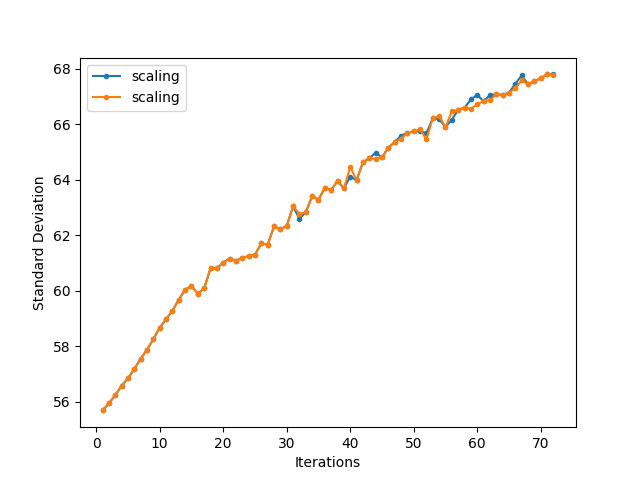
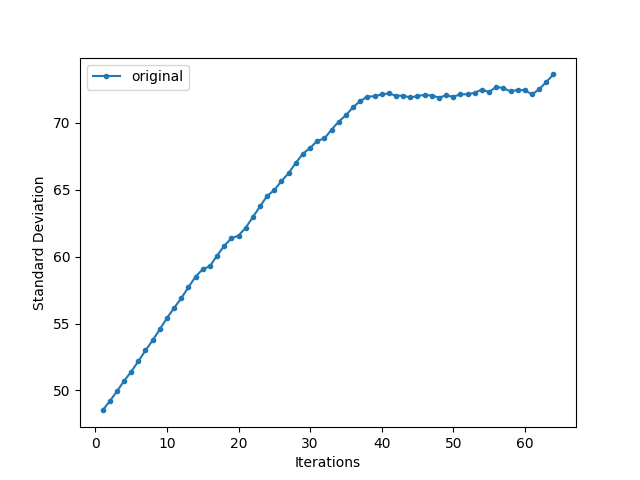
implemented OriginalExtractor

diff --git a/twodirectional/original.py b/twodirectional/original.py
@@ -1,4 +1,3 @@
-from configurations import *
 from util.compress import CompressionAlgorithm, deflate
 from util.data_buffer import BoolDataBuffer
 from util.util import *
@@ -25,7 +24,7 @@ class OriginalEmbedder:
         self._fill_buffer(is_modified)
         self._process(iterations)
         embedded_image = assemble_image(self._header_pixels, self._processed_pixels, self._cover_image.shape)
-        return embedded_image, len(self._hidden_data) - len(self._buffer.next(-1))
+        return embedded_image, iterations, len(self._hidden_data) - len(self._buffer.next(-1))
 
     def _preprocess(self, iterations):
         is_modified = np.zeros_like(self._processed_pixels, dtype=np.bool)
@@ -99,11 +98,89 @@ class OriginalEmbedder:
 
         try:
             self._index += 1
-            print(self._index)
             return self.embed(self._index)
         except ValueError:
             self.index = 0
             raise StopIteration
+
+
+class OriginalExtractor:
+    def __init__(self, compression=deflate):
+        self._decompress = compression.decompress
+
+        self._header_pixels = None
+        self._processed_pixels = None
+        self._buffer = BoolDataBuffer()
+
+    @staticmethod
+    def _get_peaks(peaks):
+        return binary_to_integer(peaks[:8]), binary_to_integer(peaks[8:])
+
+    def extract(self, embedded_image):
+        embedded_image = embedded_image.copy()
+        self._header_pixels, self._processed_pixels = get_header_and_body(embedded_image, 17)
+
+        iterations = self._process()
+        hidden_data, is_modified = self._process_data(iterations)
+        self._recover_image(iterations, is_modified)
+
+        cover_image = assemble_image(self._header_pixels, self._processed_pixels, embedded_image.shape)
+
+        return cover_image, iterations, hidden_data
+
+    def _process(self):
+        iterations = 0
+        parity = get_lsb([self._header_pixels[0]])
+        self._buffer.set_parity(parity)
+        left_peak, right_peak = self._get_peaks(get_lsb(self._header_pixels[1:]))
+        while left_peak or right_peak:
+            iterations += 1
+
+            left_peak_pixels = self._processed_pixels[
+                np.logical_or(self._processed_pixels == left_peak, self._processed_pixels == left_peak - 1)]
+
+            right_peak_pixels = self._processed_pixels[
+                np.logical_or(self._processed_pixels == right_peak, self._processed_pixels == right_peak + 1)]
+
+            iteration_data = []
+            iteration_data.extend(left_peak - left_peak_pixels)
+            iteration_data.extend(right_peak_pixels - right_peak)
+            self._buffer.add(iteration_data)
+
+            self._processed_pixels[self._processed_pixels == left_peak - 1] = left_peak
+            self._processed_pixels[self._processed_pixels == right_peak + 1] = right_peak
+            self._processed_pixels[self._processed_pixels < left_peak] += 1
+            self._processed_pixels[self._processed_pixels > right_peak] -= 1
+
+            binary_last_peaks = self._buffer.next(16)
+            left_peak, right_peak = self._get_peaks(binary_last_peaks)
+
+        return iterations
+
+    def _process_data(self, iterations):
+        is_modifiable = np.logical_or(self._processed_pixels < 2 * iterations,
+                                      self._processed_pixels > MAX_PIXEL_VALUE - 2 * iterations)
+        is_modified = np.zeros_like(self._processed_pixels, dtype=np.bool)
+
+        for index, value in np.ndenumerate(self._header_pixels):
+            self._header_pixels[index] = set_lsb(value, self._buffer.next())
+
+        is_modified_size_bits = self._buffer.next(COMPRESSED_DATA_LENGTH_BITS)
+        is_modified_compressed_size = binary_to_integer(is_modified_size_bits)
+        is_modified_compressed = self._buffer.next(is_modified_compressed_size * 8)
+        is_modified_minimized_bytes = self._decompress(bits_to_bytes(is_modified_compressed))
+        is_modified_minimize_with_extra_bits = bytes_to_bits(is_modified_minimized_bytes)
+        is_modified[is_modifiable] = is_modified_minimize_with_extra_bits[:np.count_nonzero(is_modifiable)]
+        hidden_data = bits_to_bytes(self._buffer.next(-1))
+        return hidden_data, is_modified
+
+    def _recover_image(self, iterations, is_modified):
+        self._processed_pixels[np.logical_and(is_modified, self._processed_pixels < 128)] -= iterations
+        self._processed_pixels[np.logical_and(is_modified, self._processed_pixels >= 128)] += iterations
+
+
+def embed(image, data, iterations=64):
+    return OriginalEmbedder(image, data).embed(iterations)
 
 
 if __name__ == '__main__':
@@ -111,10 +188,17 @@ if __name__ == '__main__':
 
     image = read_image('res/f-16.png')
     data = bits_to_bytes(np.random.randint(0, 2, size=2000 * 2000) > 0)
-    embedder = OriginalEmbedder(image, data)
+    embedder = OriginalEmbedder(image.copy(), data)
+    extractor = OriginalExtractor()
 
     embedded, hidden_data_size = embedder.embed(64)
     cv2.imwrite('out/embedded.png', embedded)
 
-    for it in embedder:
-        print(it)
+    extracted, iterations, hidden_data = extractor.extract(embedded)
+    cv2.imwrite('out/extracted.png', extracted)
+
+    print(f'difference: {np.sum(np.abs(image - extracted))} \n'
+          f'hidden data size: {8 * len(hidden_data)}')
+
+    # for it in embedder:
+    #     print(it)

diff --git a/stats.py b/stats.py
@@ -6,9 +6,9 @@ import matplotlib.pyplot as plt
 import numpy as np
 from skimage.metrics import structural_similarity
 
+from rdh_algorithm import *
 from util.compress import *
 from util.measure import Measure
-from util.rdh import *
 from util.util import bits_to_bytes, read_image
 
 parser = argparse.ArgumentParser()
@@ -19,9 +19,9 @@ ORIGINAL_IMAGE_NAME = args.source
 ORIGINAL_IMAGE_PATH = f'res/{ORIGINAL_IMAGE_NAME}'
 DATA_PATH = 'res/data.txt'
 # RDH_ALGORITHMS = [original_algorithm, scaling_algorithm, unidirectional_algorithm, bp_unidirectional_algorithm]
-RDH_ALGORITHMS = [scaling_algorithm, scaling_algorithm]
-ARGS = ((no_compress,), (deflate, ))
-KWARGS = ({}, {})
+RDH_ALGORITHMS = [original_algorithm]
+ARGS = ((no_compress,), )
+KWARGS = ({}, )
 
 path, name = os.path.split(ORIGINAL_IMAGE_NAME)
 image_name, _ = os.path.splitext(name)
@@ -49,45 +49,42 @@ ratios = []
 stds = []
 means = []
 ssids = []
-for rdh, args, kwargs in zip(RDH_ALGORITHMS, ARGS, KWARGS):
+for (embedder, extractor, label), args, kwargs in zip(RDH_ALGORITHMS, ARGS, KWARGS):
     stopwatch = Measure()
     print('======================')
-    print(rdh)
+    print(label)
     print('======================')
     algorithm_rations = []
     algorithm_stds = []
     algorithm_means = []
     algorithm_ssids = []
-    for iterations_count in range(1, rdh.limit + 1):
+    embedder = embedder(original_image.copy(), data)
+    extractor = extractor()
+
+    for embedded_image, iterations_count, _ in embedder:
         print(f'{iterations_count} iterations:')
 
-        processed_image, remaining_data = Measure(rdh.embed, 'embedding', print_time=True) \
-            (original_image.copy(), data, iterations_count, *args, **kwargs)
-        if rdh.extract:
-            try:
-                recovered_image, extraction_iterations, extracted_data = \
-                    Measure(rdh.extract, 'extraction', print_time=True)(processed_image.copy(), *args, **kwargs)
-                is_successful = \
-                    not np.any(original_image - recovered_image) and extraction_iterations == iterations_count
-                hidden_data_size = len(extracted_data) * 8
-            except Exception as e:
-                print(e)
-                is_successful = False
-                hidden_data_size = 0
-                recovered_image = None
-        else:
+        try:
+            recovered_image, extraction_iterations, extracted_data = extractor.extract(embedded_image)
+            # recovered_image, extraction_iterations, extracted_data = \
+            #     Measure(rdh.extract, 'extraction', print_time=True)(embedded_image.copy(), *args, **kwargs)
+            is_successful = \
+                not np.any(original_image - recovered_image) and extraction_iterations == iterations_count
+            hidden_data_size = len(extracted_data) * 8
+        except Exception as e:
+            print(e)
+            is_successful = False
+            hidden_data_size = 0
             recovered_image = None
-            hidden_data_size = 8 * (len(data) - len(remaining_data))
-            is_successful = hidden_data_size >= 0
 
         if is_successful:
             print(hidden_data_size, 'bits')
             print(hidden_data_size / 8000, 'kb')
             print(round(hidden_data_size / original_image.size, 3), 'bit/pixel')
             algorithm_rations.append(hidden_data_size / original_image.size)
-            algorithm_stds.append(np.std(processed_image, dtype=np.float64))
-            algorithm_means.append(np.abs(np.mean(original_image) - np.mean(processed_image, dtype=np.float64)))
-            algorithm_ssids.append(structural_similarity(original_image, processed_image))
+            algorithm_stds.append(np.std(embedded_image, dtype=np.float64))
+            algorithm_means.append(np.abs(np.mean(original_image) - np.mean(embedded_image, dtype=np.float64)))
+            algorithm_ssids.append(structural_similarity(original_image, embedded_image))
         else:
             print('extraction failed')
             if recovered_image is not None:
@@ -103,7 +100,7 @@ for rdh, args, kwargs in zip(RDH_ALGORITHMS, ARGS, KWARGS):
     ssids.append(algorithm_ssids)
 
 algorithms_labels = [algo.label for algo in RDH_ALGORITHMS]
-algorithms_labels.append(unidirectional_algorithm.label)
+# algorithms_labels.append(unidirectional_algorithm.label)
 
 plot(ratios, algorithms_labels, 'Iterations', 'Pure hiding ratio (bpp)', f'rate_{image_name}')
 plot(stds, algorithms_labels, 'Iterations', 'Standard Deviation', f'std_{image_name}')

diff --git a/twodirectional/scaling.py b/twodirectional/scaling.py
@@ -1,4 +1,4 @@
-from original_embed import OriginalEmbedder
+from original import OriginalEmbedder
 from util.util import *
 
 
@@ -42,7 +42,7 @@ class ScalingEmbedder(OriginalEmbedder):
 if __name__ == '__main__':
     import cv2
 
-    image = read_image('res/f-16.png')
+    image = read_image('res/dataset-50/43.gif')
     data = bits_to_bytes(np.random.randint(0, 2, size=2000 * 2000) > 0)
     embedder = ScalingEmbedder(image, data)
 

diff --git a/original_extract.py b/original_extract.py
@@ -2,7 +2,7 @@ import argparse
 
 import cv2
 
-from util.compress import Deflate
+from util.compress import deflate
 from util.data_buffer import BoolDataBuffer
 from util.util import *
 
@@ -109,7 +109,7 @@ is_modified = None
 is_modifiable = None
 buffer = None
 
-decompress = Deflate.decompress
+decompress = deflate.decompress
 
 if __name__ == '__main__':
     parser = argparse.ArgumentParser()

diff --git a/rdh_algorithm.py b/rdh_algorithm.py
@@ -1,0 +1,7 @@
+from collections import namedtuple
+
+from twodirectional import original
+
+RdhAlgorithm = namedtuple('RdhAlgorithm', ('embedder', 'extractor', 'label'))
+
+original_algorithm = RdhAlgorithm(original.OriginalEmbedder, original.OriginalExtractor, 'original')

diff --git a/util/data_buffer.py b/util/data_buffer.py
@@ -50,6 +50,9 @@ class BoolDataBuffer:
     def __next__(self):
         return self.next()
 
+    def __getitem__(self, item):
+        return self._buffer[item]
+
     def clear(self):
         self._buffer = np.array([])
         self._parity = False
